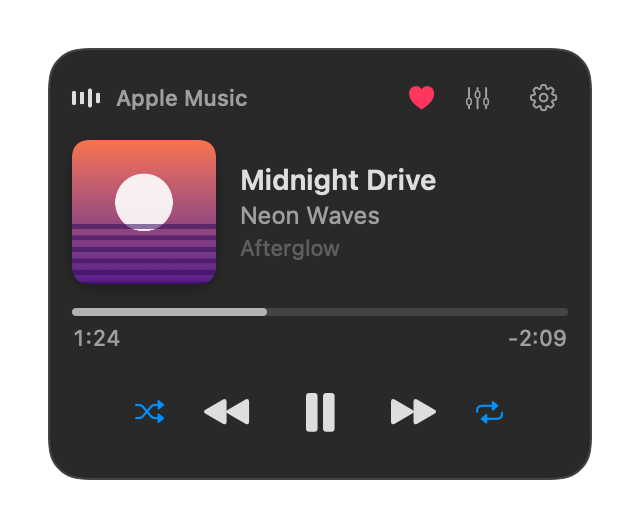
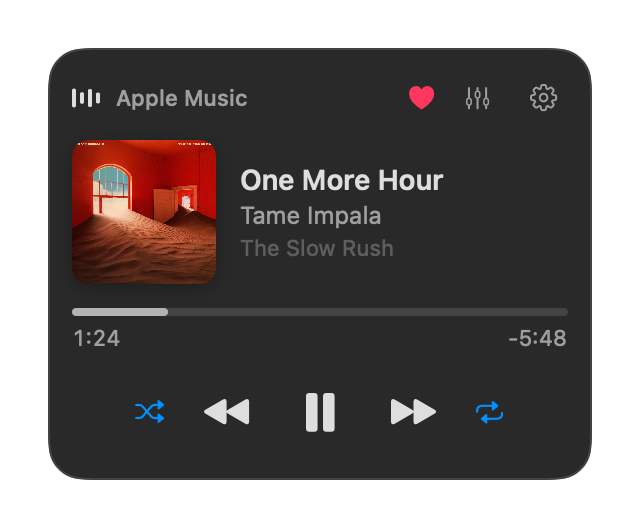
Real artwork in demo images, shorter README

diff --git a/Sources/Demo.swift b/Sources/Demo.swift
@@ -1,15 +1,15 @@
 import SwiftUI
 import AppKit
 
-/// `MusicBar --render <dir>` draws the real views with demo data to PNGs (used for the README images).
+/// `MusicBar --render <dir> [--art <image>]` draws the real views with demo data to PNGs (used for the README images).
 @MainActor
 enum Demo {
-    static func run(dir: URL) {
+    static func run(dir: URL, artPath: String?) {
         try? FileManager.default.createDirectory(at: dir, withIntermediateDirectories: true)
-        let art = render(cover, scale: 1)!
+        let art = artPath.flatMap { NSImage(contentsOfFile: $0) } ?? render(cover, scale: 1)!
         func np(_ playing: Bool) -> NowPlaying {
-            NowPlaying(player: .music, title: "Midnight Drive", artist: "Neon Waves", album: "Afterglow",
-                       duration: 214, position: 84, isPlaying: playing, shuffle: true, repeatMode: "all", favorited: true)
+            NowPlaying(player: .music, title: "One More Hour", artist: "Tame Impala", album: "The Slow Rush",
+                       duration: 433, position: 84, isPlaying: playing, shuffle: true, repeatMode: "all", favorited: true)
         }
         let playing = MediaController(demo: np(true), artwork: art)
         let paused = MediaController(demo: np(false), artwork: art)
@@ -60,7 +60,7 @@ enum Demo {
         save(render(hero), dir.appendingPathComponent("hero.png"))
     }
 
-    /// Generated cover so no copyrighted artwork ships in the repo.
+    /// Generated fallback cover, used when no `--art` image is passed.
     static var cover: some View {
         ZStack {
             LinearGradient(colors: [Color(red: 0.98, green: 0.45, blue: 0.3), Color(red: 0.35, green: 0.1, blue: 0.55)],

diff --git a/Sources/main.swift b/Sources/main.swift
@@ -69,7 +69,8 @@ final class AppDelegate: NSObject, NSApplicationDelegate, NSPopoverDelegate {
 
     func applicationDidFinishLaunching(_ n: Notification) {
         if let i = CommandLine.arguments.firstIndex(of: "--render"), i + 1 < CommandLine.arguments.count {
-            MainActor.assumeIsolated { Demo.run(dir: URL(fileURLWithPath: CommandLine.arguments[i + 1])) }
+            let art = CommandLine.arguments.firstIndex(of: "--art").flatMap { $0 + 1 < CommandLine.arguments.count ? CommandLine.arguments[$0 + 1] : nil }
+            MainActor.assumeIsolated { Demo.run(dir: URL(fileURLWithPath: CommandLine.arguments[i + 1]), artPath: art) }
             exit(0)
         }
         item = NSStatusBar.system.statusItem(withLength: 46)

diff --git a/README.md b/README.md
@@ -1,104 +1,57 @@
 <div align="center">
 
-<img src="assets/hero.png" alt="MusicBar: album cover and live waveform in the macOS menu bar" width="100%">
+<img src="assets/hero.png" alt="MusicBar: album cover and waveform in the macOS menu bar" width="100%">
 
 # MusicBar
 
-**Your album cover and a live waveform, right in the macOS menu bar.**
-A tiny, native Now Playing for Apple Music and Spotify, with a popover you will actually enjoy using.
+**Your album cover in the macOS menu bar, with a waveform next to it.**
 
 [![macOS](https://img.shields.io/badge/macOS-14.2%2B-black?logo=apple&logoColor=white)](#install)
-[![Swift](https://img.shields.io/badge/Swift-SwiftUI%20%2B%20AppKit-F05138?logo=swift&logoColor=white)](#how-it-works)
 [![License: MIT](https://img.shields.io/badge/license-MIT-blue)](LICENSE)
+[![Download](https://img.shields.io/github/v/release/Daniil15DDD/MusicBar?label=download)](https://github.com/Daniil15DDD/MusicBar/releases/latest)
 [![Ko-fi](https://img.shields.io/badge/Ko--fi-Support%20me-FF5E5B?logo=ko-fi&logoColor=white)](https://ko-fi.com/barabashka123)
 
 </div>
 
----
-
 ## Why
 
-macOS shows a generic icon for Now Playing. MusicBar puts the **real cover art** in the menu bar with a small animated waveform beside it, like the Dynamic Island on iPhone. Click it for a compact player.
+macOS shows a plain icon for Now Playing. MusicBar shows the **real cover** instead, like the iPhone's Dynamic Island. Click it for a small player.
 
 <div align="center">
 <img src="assets/menubar-playing.png" height="64" alt="Playing">
-&nbsp;&nbsp;&nbsp;
-<img src="assets/menubar-paused.png" height="64" alt="Paused: darker cover and pause icon">
-<br>
-<sub>Playing &nbsp;·&nbsp; Paused (cover dims, pause icon)</sub>
+&nbsp;&nbsp;
+<img src="assets/menubar-paused.png" height="64" alt="Paused">
+<br><sub>Playing · Paused</sub>
+<br><br>
+<img src="assets/popover.png" width="360" alt="The player popover">
 </div>
 
 ## Features
 
-- **Real album artwork** in the actual menu bar item (not a floating window), rounded like Apple's.
-- **Animated waveform** next to it. It runs only while a track plays, and shows a pause icon when paused.
-- **Compact popover**: cover, title, artist, album, draggable progress bar, previous / play-pause / next, shuffle, repeat.
-- **Favourite** the current song and open an **Equalizer** panel (presets and on/off) for Apple Music.
-- **Press animation** on play/pause, instant response, no flicker when the song changes.
-- **Apple Music and Spotify**, auto-detected, switches between them gracefully.
-- **Light on resources**: event-driven updates, no Dock icon, no windows until you click.
-- **Settings**: launch at login, hide artwork or waveform, choose the player, click behaviour, what to show when nothing plays.
-- **No audio recording by default.** See [the waveform](#about-the-waveform).
-
-<div align="center">
-<img src="assets/popover.png" width="360" alt="The MusicBar popover">
-</div>
+- Real album art and an animated waveform in the menu bar
+- Compact player: seek bar, previous / play / next, shuffle, repeat
+- Favourite and equalizer presets (Apple Music)
+- Works with **Apple Music** and **Spotify**
+- Light on resources, no Dock icon, no audio recording
 
 ## Install
 
-**Easiest:** download `MusicBar-1.0.zip` from [Releases](https://github.com/Daniil15DDD/MusicBar/releases/latest), unzip, and move `MusicBar.app` to Applications. It is not notarized, so on first launch right-click → **Open** (or run `xattr -cr /Applications/MusicBar.app`).
+1. Download `MusicBar-1.0.zip` from [Releases](https://github.com/Daniil15DDD/MusicBar/releases/latest) and unzip it.
+2. Move `MusicBar.app` to Applications and right-click → **Open** (it is not notarized).
+3. Allow it to control Music and Spotify when macOS asks.
 
-**Or build it yourself.** No Xcode needed, the Command Line Tools are enough:
+Needs macOS 14.2+. To build from source instead: `git clone` this repo, then `./build.sh` (Command Line Tools are enough).
 
-```bash
-git clone https://github.com/Daniil15DDD/MusicBar.git
-cd MusicBar
-./build.sh
-open build/MusicBar.app
-```
+## Good to know
 
-Or generate an Xcode project: `brew install xcodegen && xcodegen`, then open `MusicBar.xcodeproj`.
-
-Requires **macOS 14.2+**, Apple Silicon or Intel. The build is ad-hoc signed; for sharing builds, sign with your Developer ID and notarize.
-
-On first launch macOS asks to let MusicBar control **Music** and **Spotify**. Allow both (System Settings → Privacy & Security → Automation).
-
-## About the waveform
-
-Honest answer: by default the bars move like Boring Notch's: a lively, music-style animation that **does not listen to your audio**. Apple Music and Spotify streams are protected, and reading what they play means capturing system audio, which needs a permission prompt and shows macOS's recording indicator.
-
-If you want it to react to the actual sound, turn on **Settings → Make waveform react to the audio**. MusicBar then reads live levels (five frequency bands) from a system audio tap, only while a track is playing. Nothing is recorded or stored. It is off by default.
-
-## How it works
-
-- `MediaController` reads Music and Spotify through AppleScript (public API, no private frameworks). It updates from Music's and Spotify's own distributed notifications, with a slow safety poll, and caches artwork per track.
-- The menu bar item is an `NSStatusItem` whose button hosts a SwiftUI view with a fixed width, so it never jumps when the song changes.
-- The popover is SwiftUI in an `NSPopover` and is released when closed.
-- `swift build`-free: `build.sh` compiles a universal binary with `swiftc` and signs it.
-
-Regenerate the images in `assets/` with `build/MusicBar.app/Contents/MacOS/MusicBar --render assets`.
-
-## Limitations
-
-- Only Apple Music and Spotify are supported (system-wide Now Playing needs private APIs, so it is not used).
-- Favourite and Equalizer are Apple Music only. Spotify's scripting interface does not offer them.
-- The Equalizer panel controls presets and on/off; Apple Music does not let scripts open its own EQ window.
-- Streamed songs have no readable audio file, so there is no offline analysis.
-
-## Troubleshooting
-
-- **No song info:** check Automation permission. Reset with `tccutil reset AppleEvents` and relaunch.
-- **No artwork:** some streamed tracks expose none to AppleScript; a placeholder is shown.
-- **Item hidden:** a crowded menu bar or the notch can hide it. Quit other items, or move it with ⌘-drag.
+- The waveform is a lively animation, not a real audio analysis, so nothing is listened to. An optional setting makes it react to live audio (macOS then asks for audio-capture permission).
+- Favourite and equalizer are Apple Music only.
+- No song info? Check System Settings → Privacy & Security → Automation.
 
 ## Support
 
-If MusicBar makes your menu bar nicer, you can support development:
+If you like it, you can support me on Ko-fi, and a star helps others find it.
 
 [![Support me on Ko-fi](https://img.shields.io/badge/Support%20me%20on-Ko--fi-FF5E5B?style=for-the-badge&logo=ko-fi&logoColor=white)](https://ko-fi.com/barabashka123)
 
-A star on the repo helps others find it too.
-
-## Credits and license
-
-Inspired by the Now Playing experience in iOS and by [Boring Notch](https://github.com/TheBoredTeam/boring.notch). No code was copied. MIT licensed, see [LICENSE](LICENSE).
+MIT licensed. Inspired by iOS Now Playing and [Boring Notch](https://github.com/TheBoredTeam/boring.notch); no code copied. Album artwork shown in the images belongs to its owners.
